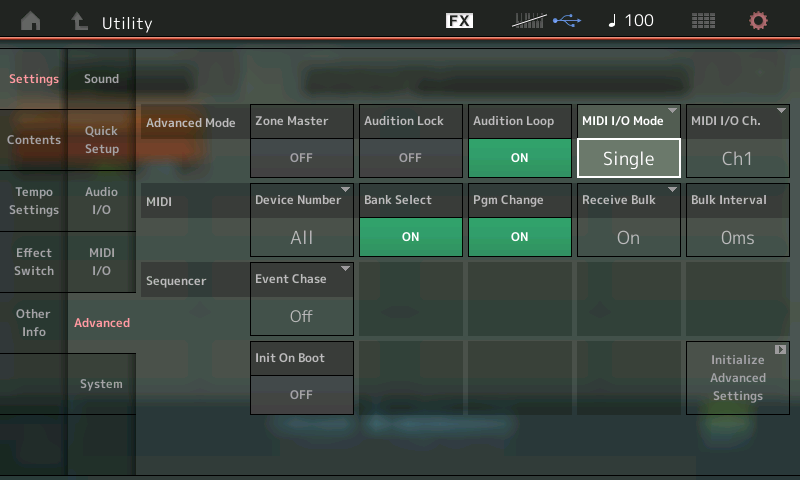
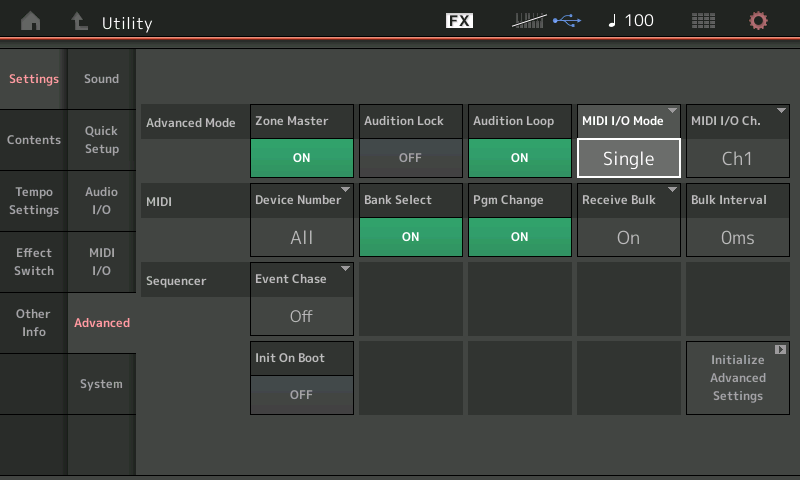
Update tips

diff --git a/daw-audio-return/DAW-Audio-Return.md b/daw-audio-return/DAW-Audio-Return.md
@@ -1,0 +1,27 @@
+# DAW Audio Return
+
+## Context
+
+With the default setup for `MIDI Record on DAW`, when you press a key on the MODX+ it will send MIDI data to the DAW.
+
+With correct routing inside the DAW track editor, you ordinarily would send this MIDI back to the MODX+ so that it both records in the DAW track and then emits sound when it arrives back in the MODX+.
+
+As long as the `Direct Monitor` setting remains enabled, this will work.
+
+You *must* still route the MIDI track back to the MODX+, otherwise there will be silence. This shows that the direct monitor must be monitoring the incoming MIDI from the DAW and not the outgoing MIDI from the MODX+.
+
+Almost all guides will tell you to turn this setting off. If you do this, then you will *not* hear any sound output from the MODX+ even though it correctly receives the MIDI data from the DAW.
+
+## Audio Return Track
+
+If you do not want to keep the direct monitor enabled, and really do need the audio from the DAW to be sent to the MODX+ for output, you need to create a supplemental audio (not MIDI) track.
+
+Arm this audio track and set the input to be `Input: Stereo` -> `USB Main L / USB Main R`.
+
+If you do not want to record this audio track, right-click the arm/record button for this track and select `Record: disable (input monitoring only)`.
+
+This will send the audio from the DAW to the master output (which will likely be the MODX+, but depends on configuration).
+
+There may be *a perceptible lag* between key press on the MODX+ and hearing the sound from the MODX+ when doing this.
+
+If you want to hear arpeggios with this setup, you must choose the quick setting preset `Arp Record on DAW`.

diff --git a/reaper-daw/Reaper-DAW.md b/reaper-daw/Reaper-DAW.md
@@ -56,11 +56,15 @@ Tap `Quick Setup 1: MIDI Rec on DAW`.
 
 ![MODX+ MIDI REC ON DAW](https://github.com/caprica/modx-tips/raw/master/reaper-daw/modx+-midi-rec-on-daw.png "MODX+ MIDI Record on DAW Quick Settings")
 
-Find the `MIDI I/O` settings and ensure that the `Midi Sync` option is set to `MIDI` (so that the MODX+ will use Reaper's clock).
+Alternatively, if you want individual notes of an arpeggio to be set, tap `Quick Setup 2: Arp Rec on DAW`.
 
-![MODX+ MIDI SYNC](https://github.com/caprica/modx-tips/raw/master/reaper-daw/modx+-midi-sync.png "MODX+ MIDI Sync")
+![MODX+ ARP REC ON DAW](https://github.com/caprica/modx-tips/raw/master/reaper-daw/modx+-arp-rec-on-daw.png "MODX+ ARP Record on DAW Quick Settings")
 
-Depending on how you want to operate, on the `Advanced` settings, set the `MIDI I/O Mode` to `Single` so that all parts are sent on the same channel. This can save you having to map parts to channels and is simpler if you record one part at a time.
+Find the `MIDI I/O` settings and ensure (it will be by default) that the `Midi Sync` option is set to `MIDI` (so that the MODX+ will use Reaper's clock).
+
+![MODX+ MIDI SYNC](https://github.com/caprica/modx-tips/raw/master/reaper-daw/modx+-midi-sync-midi.png "MODX+ MIDI Sync")
+
+Depending on how you want to operate, on the `Advanced` settings, set the `MIDI I/O Mode` to `Single` so that all parts are sent on the same channel. This can save you having to map parts to channels and tracks, and is simpler if you record one part at a time. You can choose which MIDI channel to use, but leaving it at the default is fine.
 
 ![MODX+ MIDI I/O Mode: Single](https://github.com/caprica/modx-tips/raw/master/reaper-daw/modx+-midi-io-mode-single.png "MODX+ MIDI I/O Mode: Single")
 
@@ -68,6 +72,14 @@ If you want to record multiple parts to mutiple separate MIDI channels, each one
 
 ![MODX+ MIDI I/O Mode: Multi](https://github.com/caprica/modx-tips/raw/master/reaper-daw/modx+-midi-io-mode-multi.png "MODX+ MIDI I/O Mode: Multi")
 
-Turn off the `Direct Monitor`:
+If you value your sanity, leave `Direct Monitor` set to `ON` despite what many guides will tell you.
 
-![MODX+ MIDI Direct Monitor: Off](https://github.com/caprica/modx-tips/raw/master/reaper-daw/modx+-direct-monitor.png "MODX+ Direct Monitor: Off")
+![MODX+ MIDI Direct Monitor: Off](https://github.com/caprica/modx-tips/raw/master/reaper-daw/modx+-direct-monitor-on.png "MODX+ Direct Monitor: On")
+
+To prevent Reaper from sending the MODX+ a start song command (which will start the internal sequencer on the MODX+), set the `Receive` option to `OFF` in the `Sync` settings:
+
+![MODX+ Sync Receive: Off](https://github.com/caprica/modx-tips/raw/master/reaper-daw/modx+-sync-receive-off.png "MODX+ Sync Receive: Off")
+
+## See also
+
+* [DAW Audio Return](daw-audio-return/DAW-Audio-Return.md)

diff --git a/README.md b/README.md
@@ -8,3 +8,4 @@ Or, "Things I keep forgetting each time I need to set them up".
 
 * [Screenshots](screenshots/MODX+%20Screenshots.md)
 * [Reaper DAW](reaper-daw/Reaper-DAW.md)
+* [DAW Audio Return](daw-audio-return/DAW-Audio-Return.md)